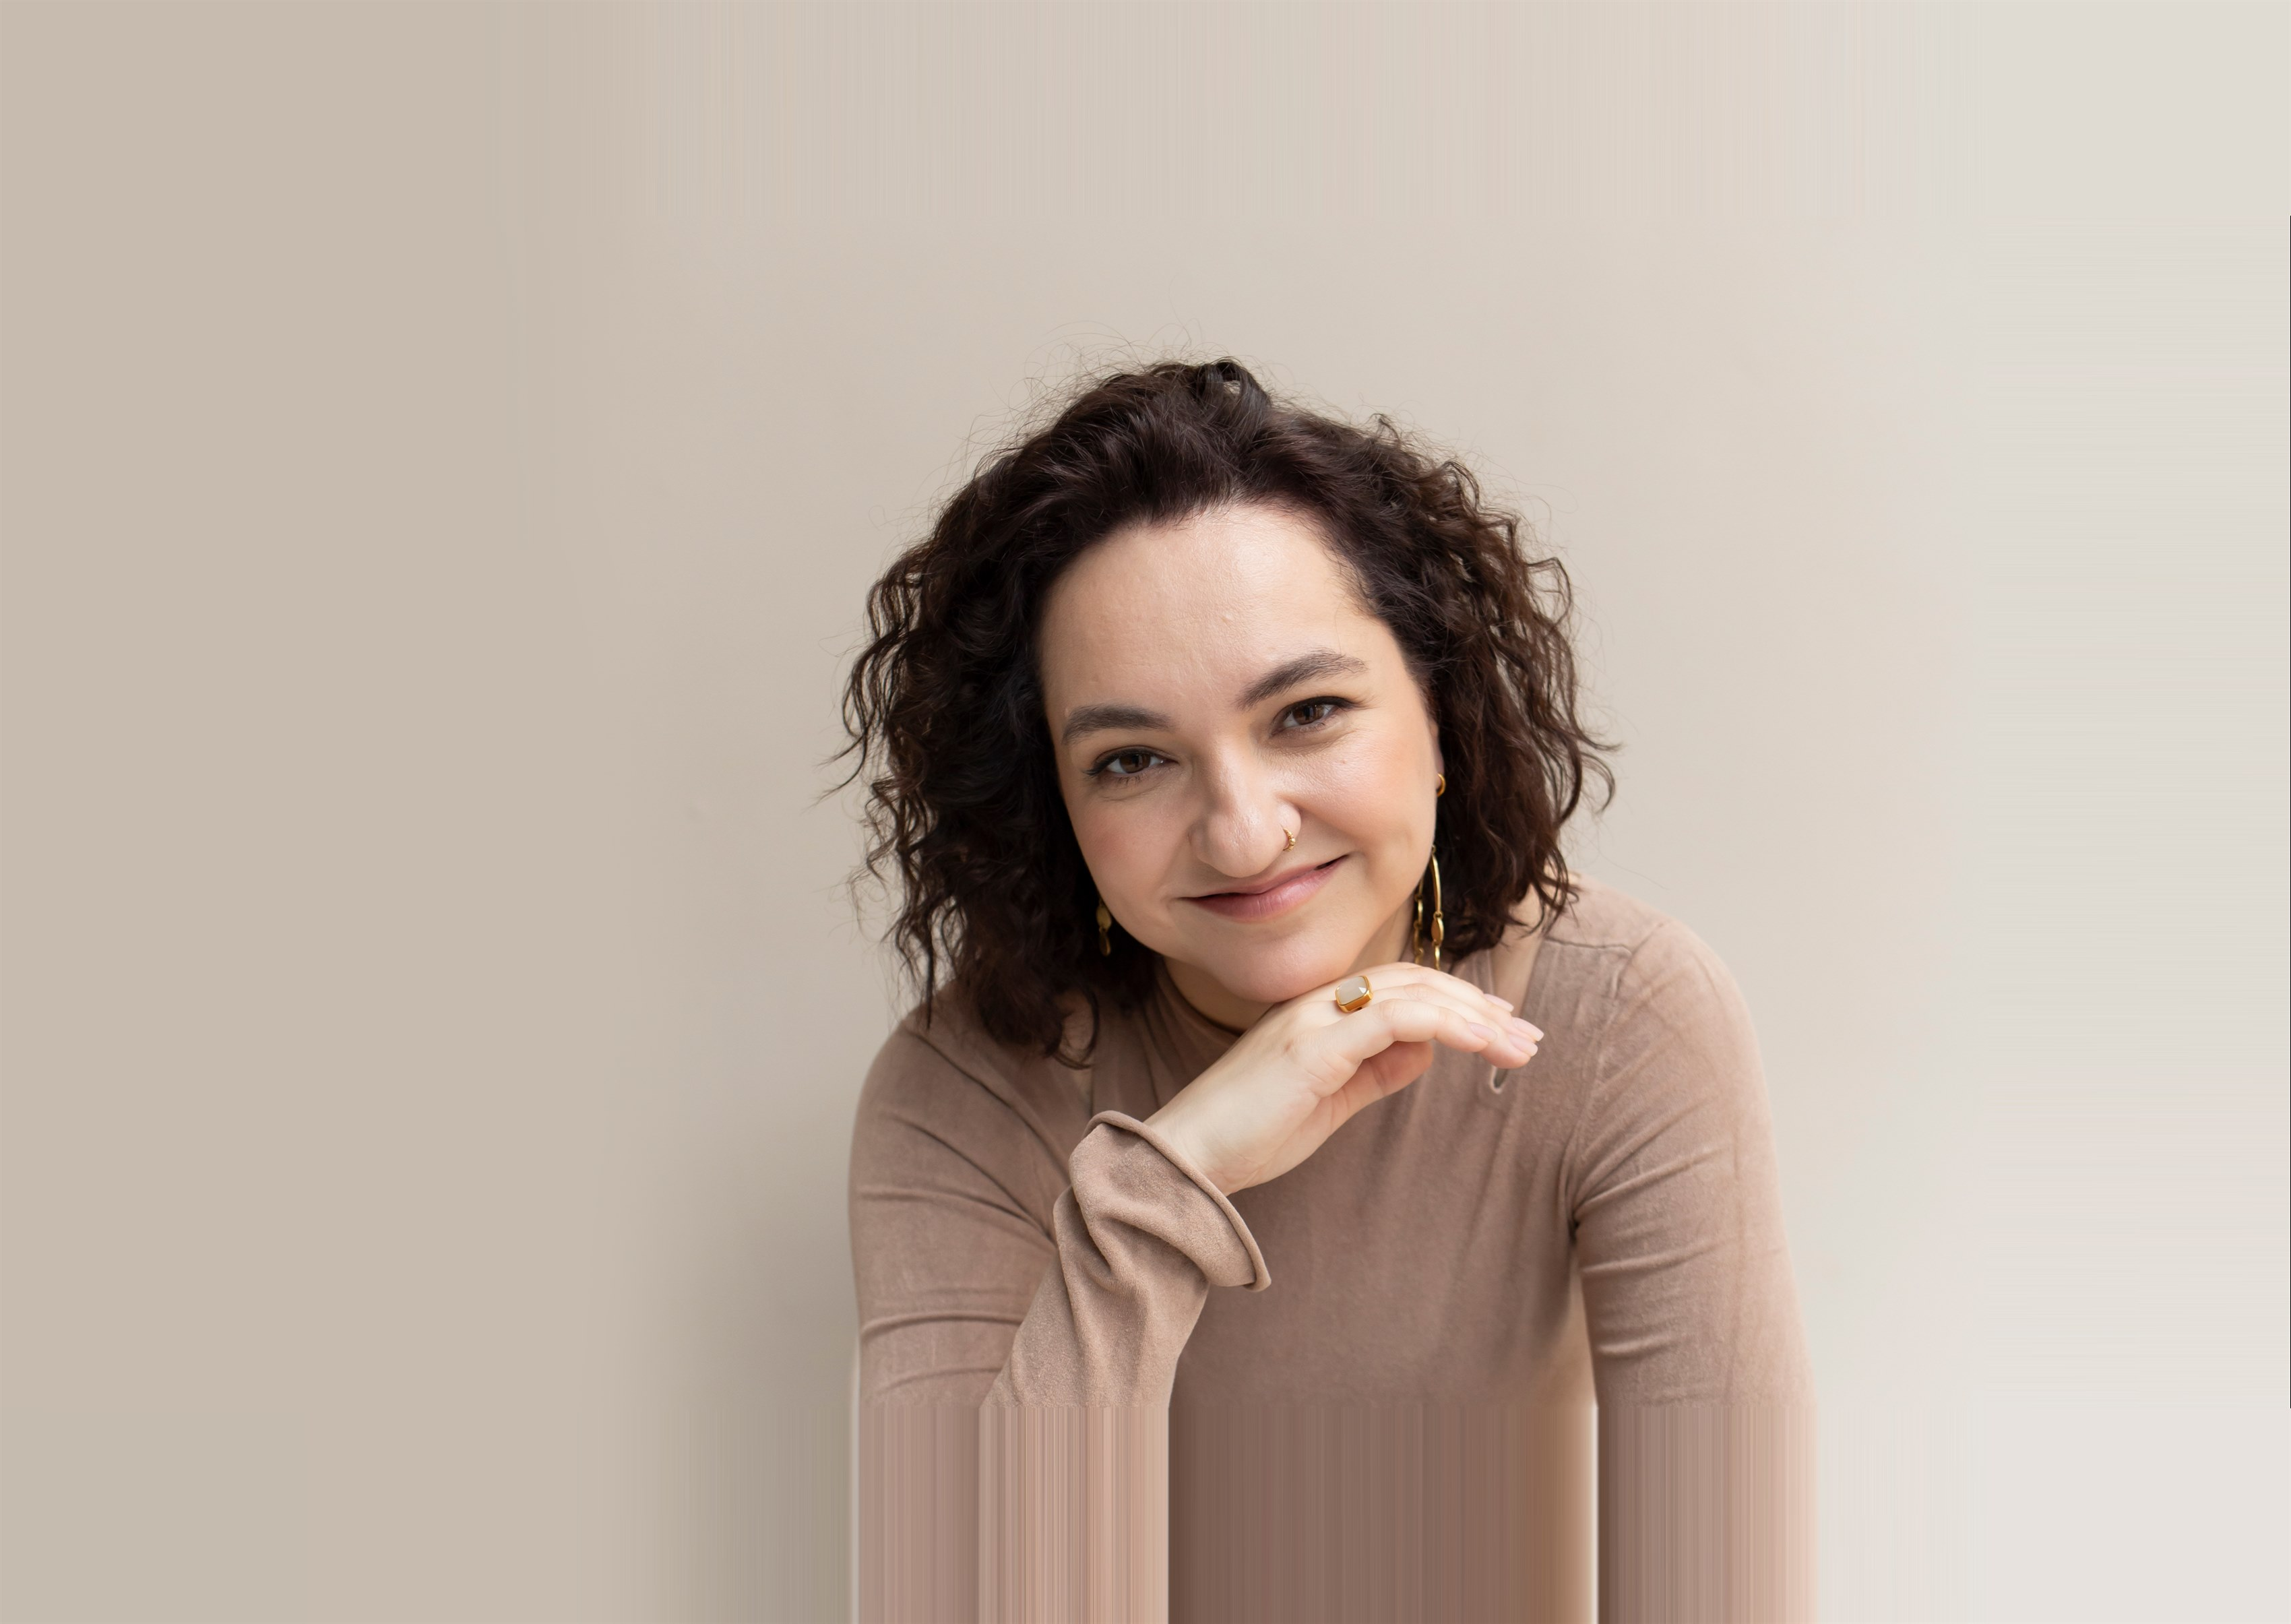
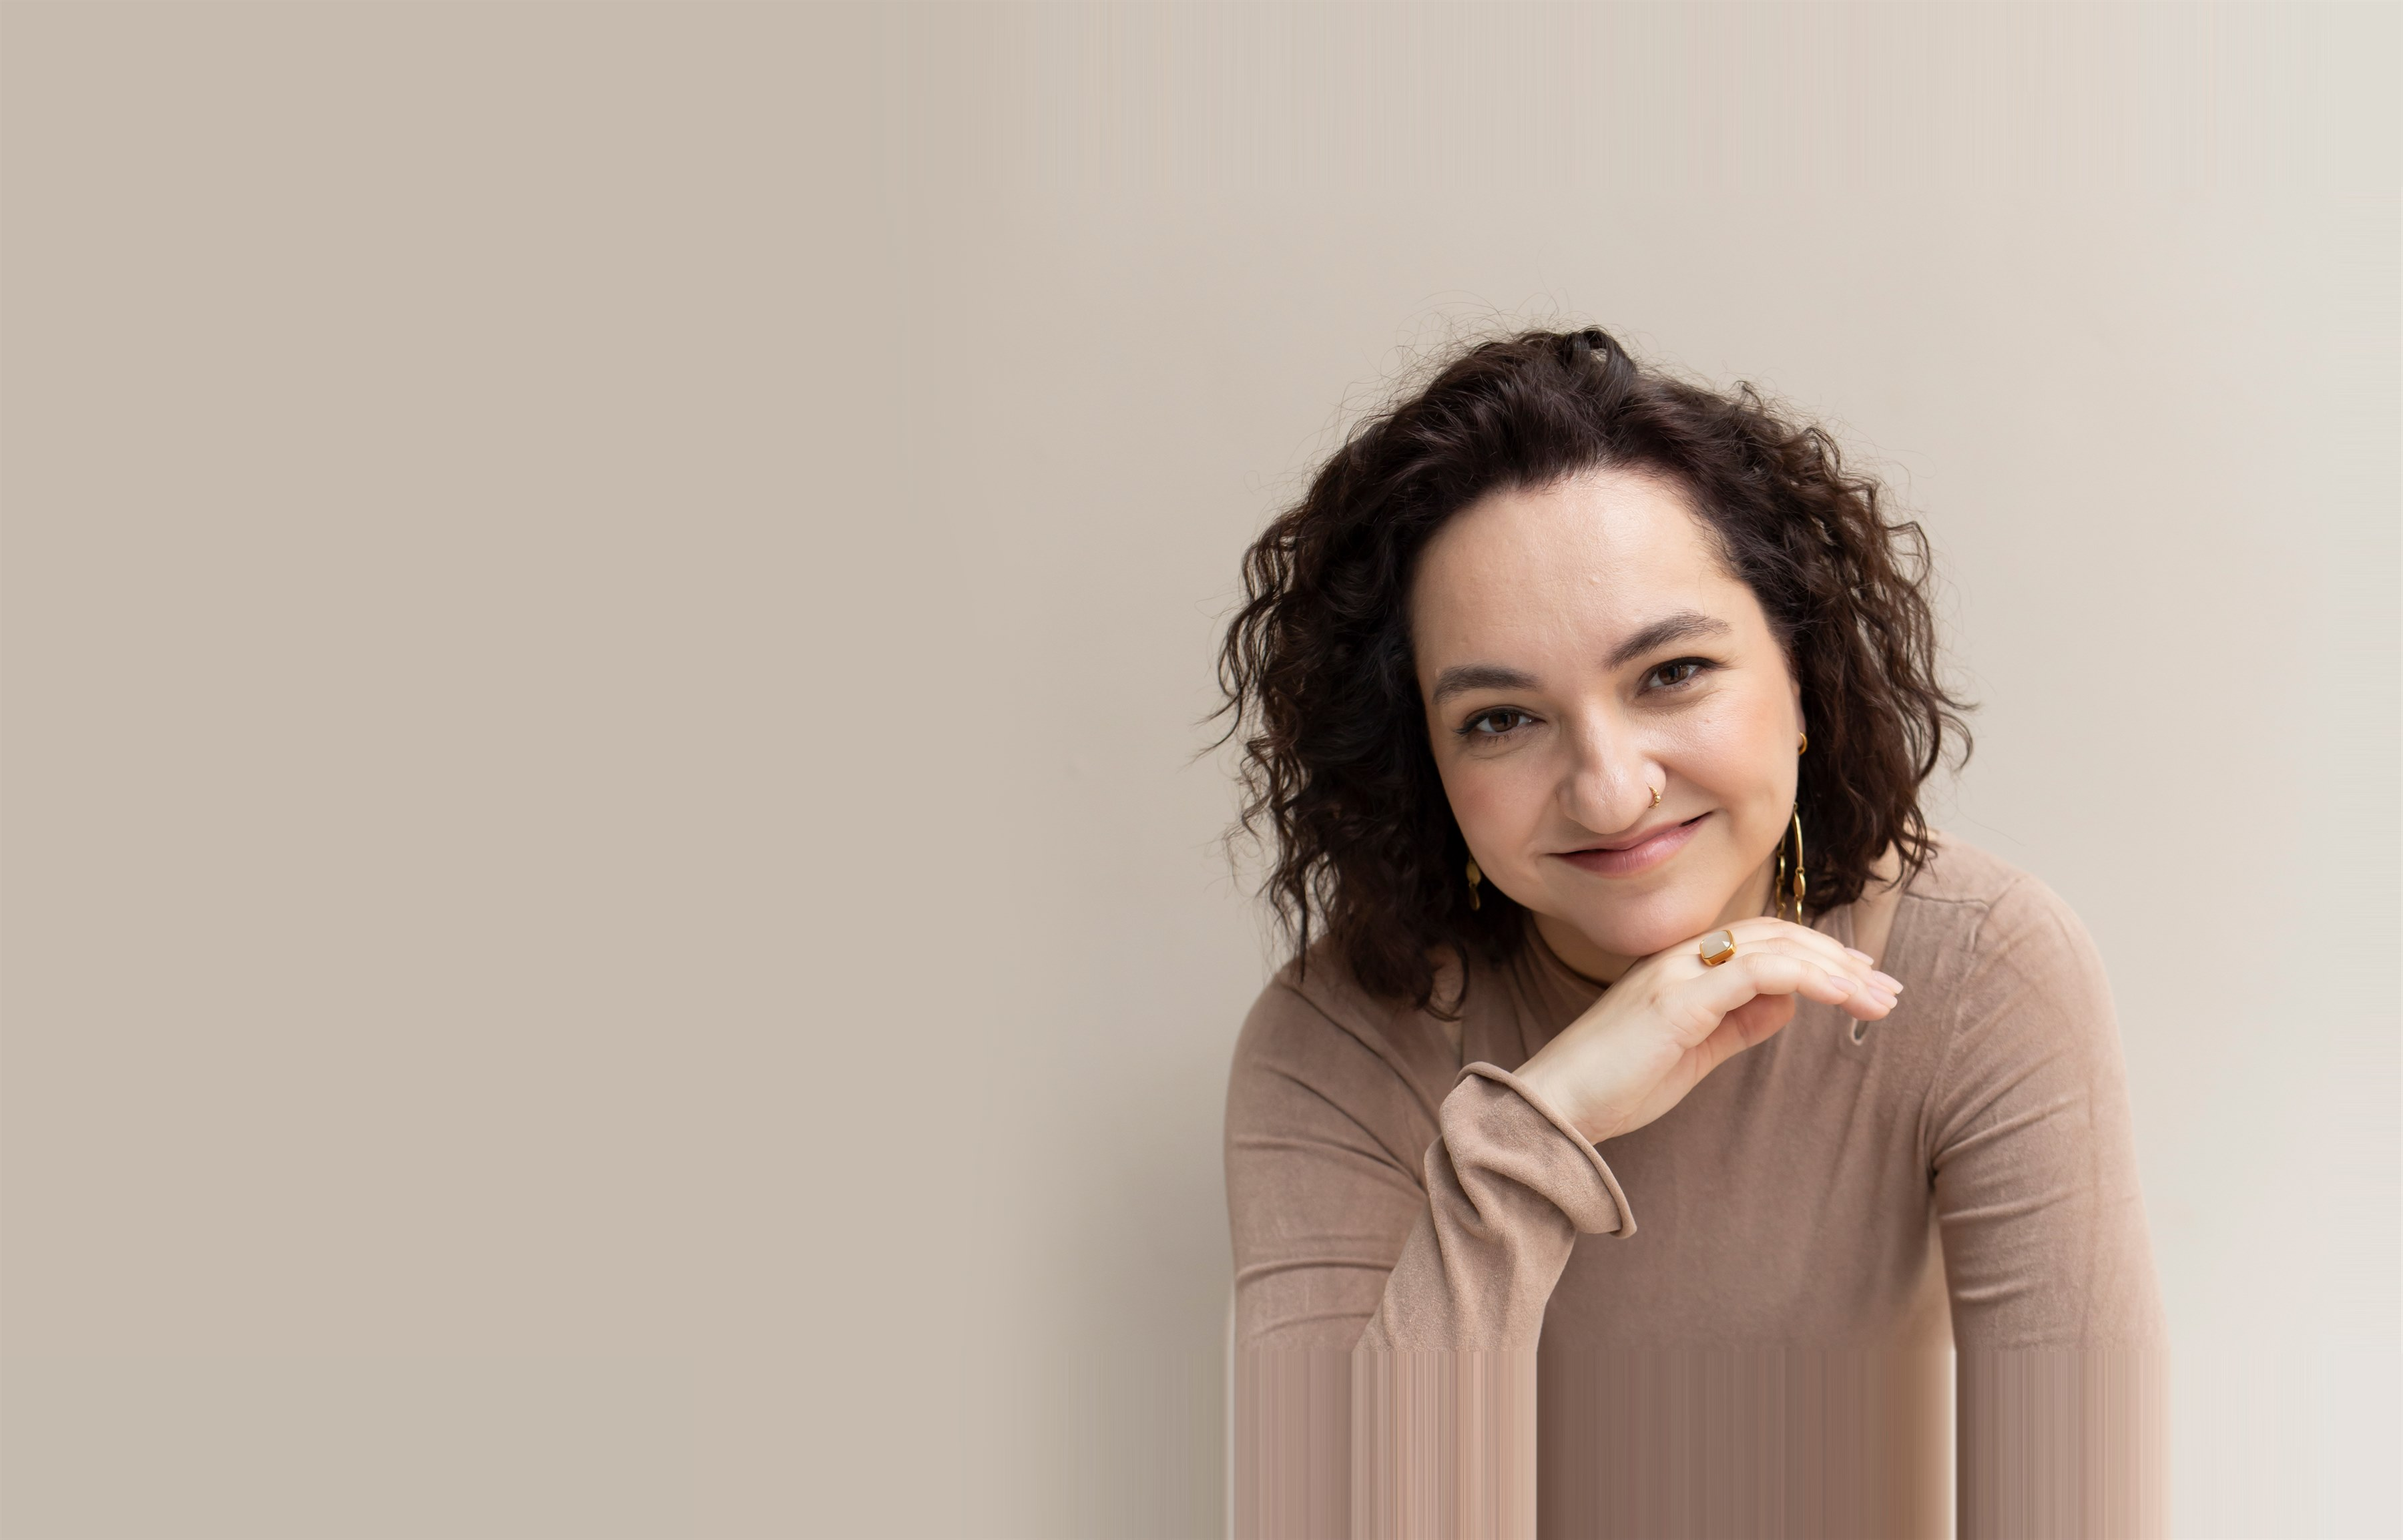
Шапка: Алина смещена вправо, заголовок крупнее
- hero-beige-2 пересобран с несимметричной достройкой (беж-стена слева)
- Цитата крупнее (до lg:3.25rem), блок шире (max-w-xl)

diff --git a/src/components/Hero.tsx b/src/components/Hero.tsx
@@ -80,10 +80,10 @@ export default function Hero() {
       <div className="relative z-10 flex min-h-[100svh] flex-col">
         {/* Цитата вверху (над головой, на фоне) */}
         <div className="px-6 pt-28 md:px-12 md:pt-32">
-          <figure className="max-w-md">
-            <div className={`mb-4 h-px w-16 ${ruleColor}`} />
+          <figure className="max-w-xl">
+            <div className={`mb-5 h-px w-16 ${ruleColor}`} />
             <blockquote
-              className={`font-display text-[1.6rem] italic leading-snug sm:text-3xl md:text-4xl ${textColor}`}
+              className={`font-display text-[1.85rem] italic leading-[1.15] sm:text-4xl md:text-5xl lg:text-[3.25rem] ${textColor}`}
             >
               «Тебе нужно больше&nbsp;помощи, чем ты&nbsp;думаешь»
             </blockquote>